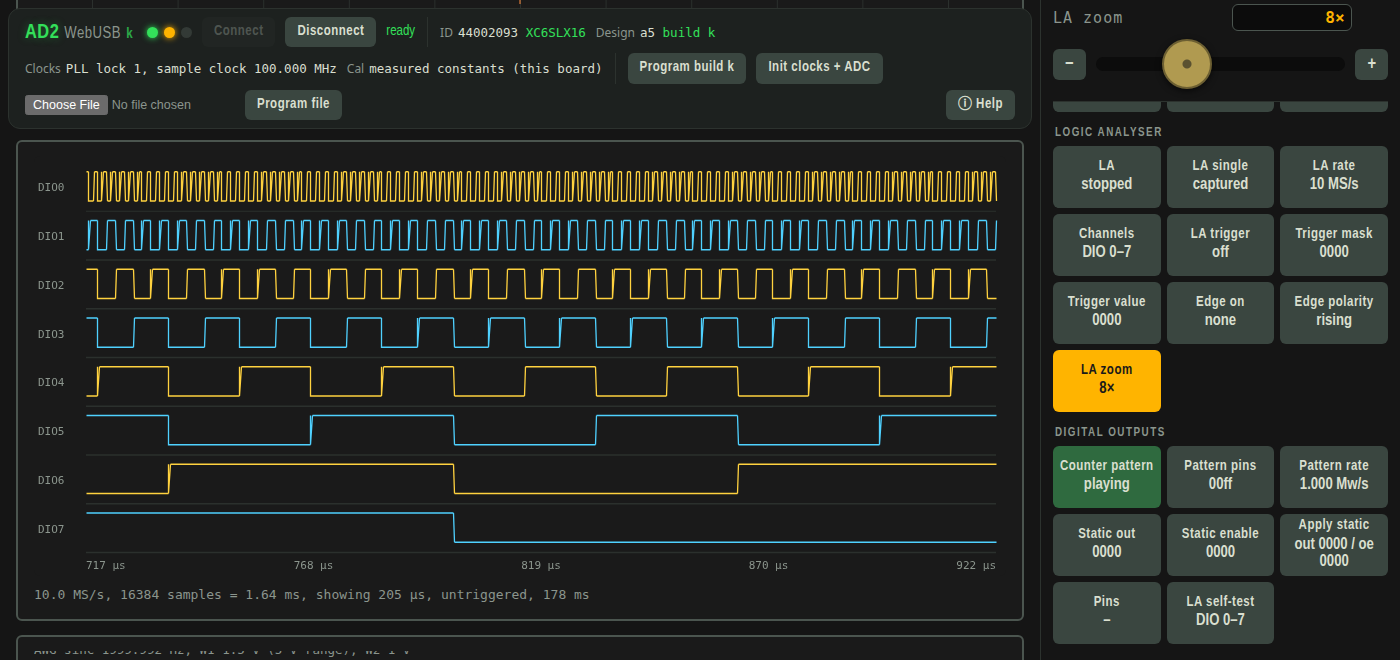
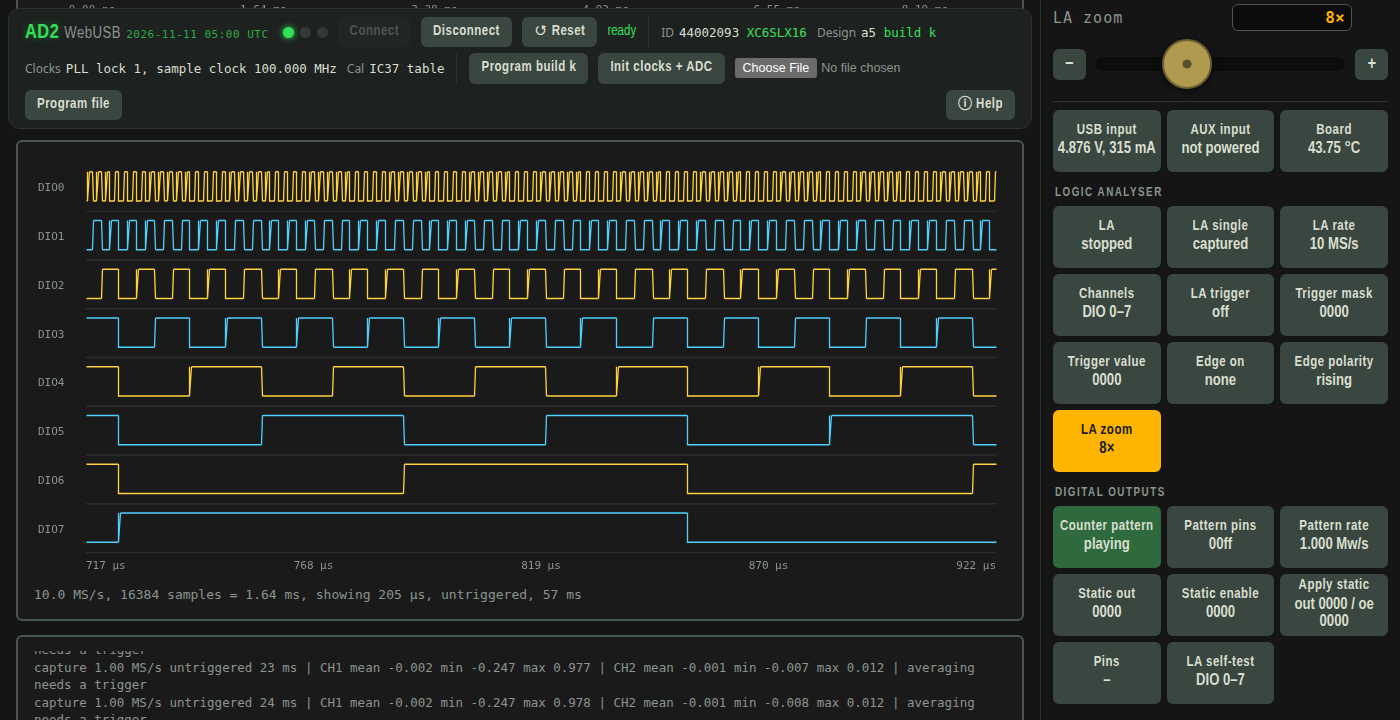
README: retake the screenshots with the current app

diff --git a/README.md b/README.md
@@ -92,7 +92,7 @@ per doubling of the count, which brings out small harmonics that power averaging
 can be clicked onto the spectrum, dragged, hopped from peak to peak or set to track the highest peak, and each
 can read live, max hold, min hold or an average, with frequency and level differences between them.
 
-![Spectrum analyser: a 20-lobe sinc from the generator at 2 kHz, showing its flat comb of harmonics to 40 kHz](screenshots/spectrum.png)
+![Spectrum analyser: a 20-lobe sinc from the generator at 2 kHz, power-averaged, showing its flat comb of harmonics to 40 kHz; markers on 2 and 20 kHz read 0.2 dB apart](screenshots/spectrum.png)
 
 **A precision frequency counter.** The FPGA counts whole periods of a signal on CH1, CH2 or any DIO pin and
 times them with the 100 MHz sample clock, back to back with no dead time. On CH1 and CH2 it interpolates the

diff --git a/CHANGELOG.md b/CHANGELOG.md
@@ -4,6 +4,7 @@ Notable changes to the app (`ad2.html`) and its FPGA design (`hdl/`), newest fir
 
 ## 2026-11-11
 
+- README screenshots retaken with the current app (the scope picture had shown the spectrum view).
 - **New scope trigger sources:** AWG (the start of each waveform-generator period, so the trace locks to W1/W2
   whatever their shape or level) and DIO 0-15 (a rising or falling edge on that pin). The FPGA's DIO edge
   detector, used by the logic analyser, can now also trigger the scope (cross-trigger source 5); a DIO trigger
